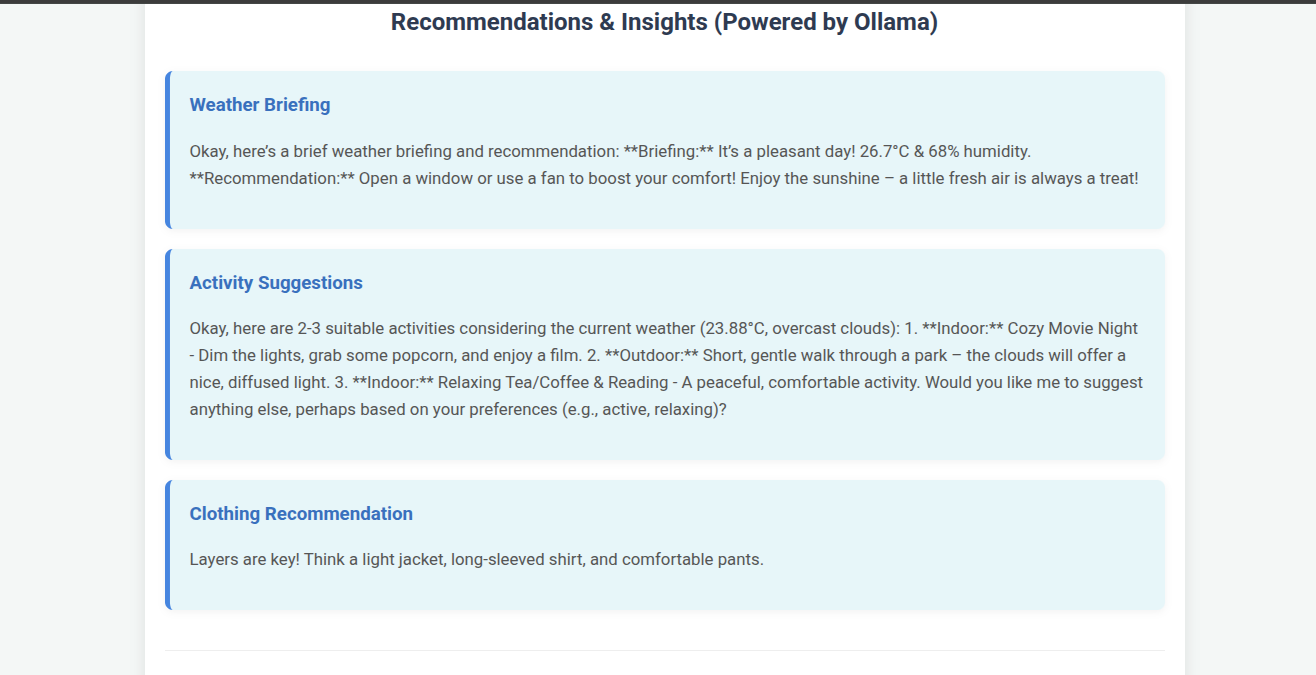
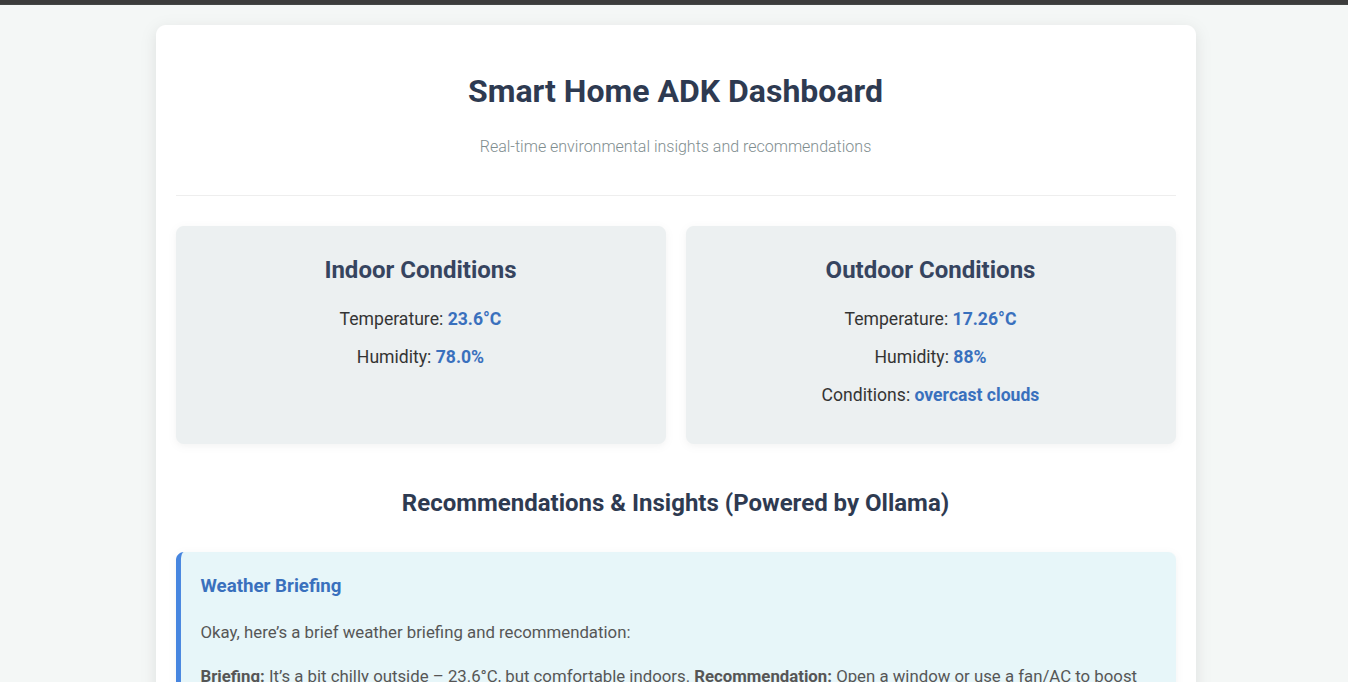
updaed

diff --git a/dashboard_server/templates/index.html b/dashboard_server/templates/index.html
@@ -5,6 +5,7 @@
     <meta name="viewport" content="width=device-width, initial-scale=1.0">
     <title>Smart Home ADK Dashboard</title>
     <link rel="stylesheet" href="{{ url_for('static', path='/style.css') }}">
+    <link rel="stylesheet" href="/static/style.css">
     <link href="https://fonts.googleapis.com/css2?family=Roboto:wght@300;400;700&display=swap" rel="stylesheet">
     <link rel="icon" type="image/x-icon" href="{{ url_for('static', path='/favicon.ico') }}">
     <script>
@@ -45,15 +46,15 @@
             <h2>Recommendations & Insights (Powered by Ollama)</h2>
             <div class="recommendation-card">
                 <h3>Weather Briefing</h3>
-                <p>{{ data.llm_briefing }}</p>
+                <p>{{ data.llm_briefing | markdown | safe }}</p>
             </div>
             <div class="recommendation-card">
                 <h3>Activity Suggestions</h3>
-                <p>{{ data.llm_activity_suggestion }}</p>
+                <p>{{ data.llm_activity_suggestion | markdown | safe }}</p>
             </div>
             <div class="recommendation-card">
                 <h3>Clothing Recommendation</h3>
-                <p>{{ data.llm_clothing_suggestion }}</p>
+                <p>{{ data.llm_clothing_suggestion | markdown | safe }}</p>
             </div>
         </section>
 

diff --git a/mcp_server/server.py b/mcp_server/server.py
@@ -257,7 +257,6 @@ async def handle_sync_intent():
             },
             "attributes": {
                 "thermostatTemperatureUnit": "CELSIUS",
-                "bufferUnderrunThreshold": 0.5, # Smallest amount change for reporting state
                 "queryOnlyTemperatureSetting": True # Indicates it's a read-only sensor
             },
             "willReportState": True,
@@ -266,7 +265,9 @@ async def handle_sync_intent():
         {
             "id": "indoor-humidity",
             "type": "action.devices.types.SENSOR",
-            "traits": ["action.devices.traits.HumiditySensor"],
+            "traits": [
+                "action.devices.traits.HumiditySetting"  # <--- CHANGED THIS TRAIT
+            ],
             "name": {
                 "defaultNames": ["My Indoor Humidity Sensor"],
                 "name": "Indoor Humidity",
@@ -277,6 +278,9 @@ async def handle_sync_intent():
                 "model": "SmartHome",
                 "hwVersion": "1.0",
                 "swVersion": "1.0"
+            },
+            "attributes": {  # <--- ADDED THIS ATTRIBUTES BLOCK
+                "queryOnlyHumiditySetting": True
             },
             "willReportState": True,
             "roomHint": "Living Room"
@@ -298,7 +302,6 @@ async def handle_sync_intent():
             },
             "attributes": {
                 "thermostatTemperatureUnit": "CELSIUS",
-                "bufferUnderrunThreshold": 0.5,
                 "queryOnlyTemperatureSetting": True
             },
             "willReportState": True,
@@ -307,11 +310,13 @@ async def handle_sync_intent():
         {
             "id": "outdoor-humidity",
             "type": "action.devices.types.SENSOR",
-            "traits": ["action.devices.traits.HumiditySensor"],
+            "traits": [
+                "action.devices.traits.HumiditySetting"  # <--- CHANGED THIS TRAIT
+            ],
             "name": {
                 "defaultNames": ["My Outdoor Humidity Sensor"],
                 "name": "Outdoor Humidity",
-                "nicknames": ["outside humidity", "weather humidity"]
+                "nicknames": ["outdoor humidity", "outside humidity"]
             },
             "deviceInfo": {
                 "manufacturer": "ADK IoT",
@@ -319,9 +324,12 @@ async def handle_sync_intent():
                 "hwVersion": "1.0",
                 "swVersion": "1.0"
             },
+            "attributes": {  # <--- ADDED THIS ATTRIBUTES BLOCK
+                "queryOnlyHumiditySetting": True
+            },
             "willReportState": True,
             "roomHint": "Outside"
-        }
+        },
     ]
     return {"agentUserId": "adk_user_123", "devices": devices} # Use a fixed user ID for testing
 
@@ -393,6 +401,7 @@ async def handle_query_intent(devices_to_query: list):
         states[device_id] = current_state
 
     return {"agentUserId": "adk_user_123", "devices": states}
+
 
 # Moved uvicorn.run to a standard if __name__ block
 if __name__ == "__main__":

diff --git a/dashboard_server/main.py b/dashboard_server/main.py
@@ -7,6 +7,7 @@ from fastapi.staticfiles import StaticFiles
 from dotenv import load_dotenv
 import httpx # For making HTTP requests to other services
 import asyncio # For async HTTP requests
+import markdown
 from fastapi.middleware.cors import CORSMiddleware
 
 # Load environment variables from .env file
@@ -24,6 +25,9 @@ app.add_middleware(
 
 # Configure Jinja2 templates directory
 templates = Jinja2Templates(directory="templates")
+
+# Add custom 'markdown' filter to Jinja2 environment
+templates.env.filters["markdown"] = lambda text: markdown.markdown(text)
 
 # Mount static files directory (for CSS, JS, images)
 app.mount("/static", StaticFiles(directory="static"), name="static")

diff --git a/README.md b/README.md
@@ -2,6 +2,9 @@
 
 A comprehensive multi-agent microservice application leveraging ADK (Agent Development Kit) for smart house IoT monitoring and city-wide weather analytics. This system combines Arduino-based temperature and humidity sensors with intelligent weather forecasting agents to create a complete environmental monitoring solution.
 
+![Google Home Smart Home Devices](images/gh1.jpeg)
+![Google Home Smart Home Devices](images/gh2.jpeg)
+![IoT Sensors with Arduino](images/iot1.png)
 ![ADK Agent Services](images/8.png)
 ![ADK Agent Services](images/9.png)
 ![ADK Agent Services](images/adk_services.png)
